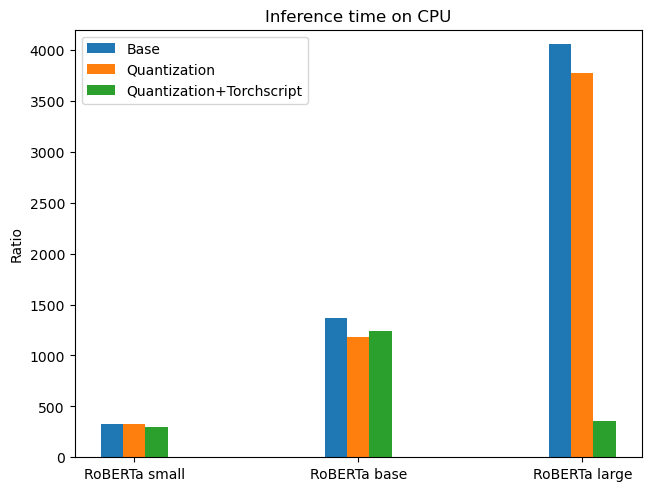
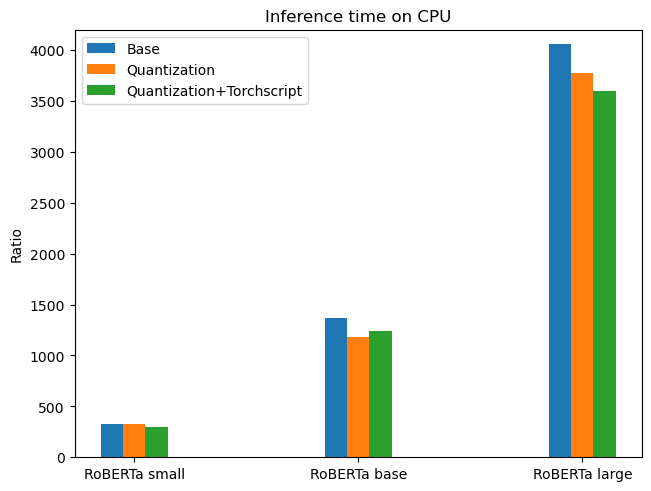
upd

Changed region(s): [[0.8909, 0.1833, 0.9524, 0.8554]]

diff --git a/README.md b/README.md
@@ -59,18 +59,20 @@ CUDA_VISIBLE_DEVICES="" python inference.py --model_name xlm-roberta-base --scri
 
 ## The Results
 ### Training Phase
-The approaches speeds up the traning of the model significantly. Interestingly, the mixed precision works exceptionally well with one GPU, and provides less speedup when used on multiple GPUs.  
+The approaches speeds up the traning of the model significantly. Interestingly, the mixed precision works exceptionally well with one GPU, and provides less speedup when used on multiple GPUs. 
 ![Resnet-1](images/resnet_plt1.png)  
 ![RoBERTa-1](images/roberta-speedup-by-methods.png)
-The batch size also affects training time. For example, this is a graph comparing two batch sizes using 4 GPUs. As a larger batch size enables faster training, it is used in the graph above.  
+
+The batch size also affects training time. For example, this is a graph comparing different batch sizes using 4 GPUs. As a larger batch size enables faster training, it is used in the graph above. 
 ![Resnet-2](images/resnet_plt2.png)  
 ![RoBERTa-2](images/roberta-time-by-batch-size.png)
 
 ## Inference Phase
-The Quantization is only supported on CPUs. And combined with TorchScript, it can slightly reduce inference time. Quantization itself does not do much, as the overhead it introduces outweights the benefit.  
+The Quantization is only supported on CPUs. And combined with TorchScript, it can slightly reduce inference time. Quantization itself does not do much, as the overhead it introduces outweights the benefit. And the acceleration is more obvious on larger models.
 ![Resnet-3](images/resnet_plt3.png)  
 ![RoBERTa-3](images/roberta-inference-on-cpu.png)
-TorchScript can significantly speed up inference on GPUs.  
+
+TorchScript can significantly speed up ResNet inference on GPUs. However, it does not work so well with RoBERTa on GPU.
 ![Resnet-4](images/resnet_plt4.png)
 ![RoBERTa-4](images/roberta-inference-on-gpu.png)
 
